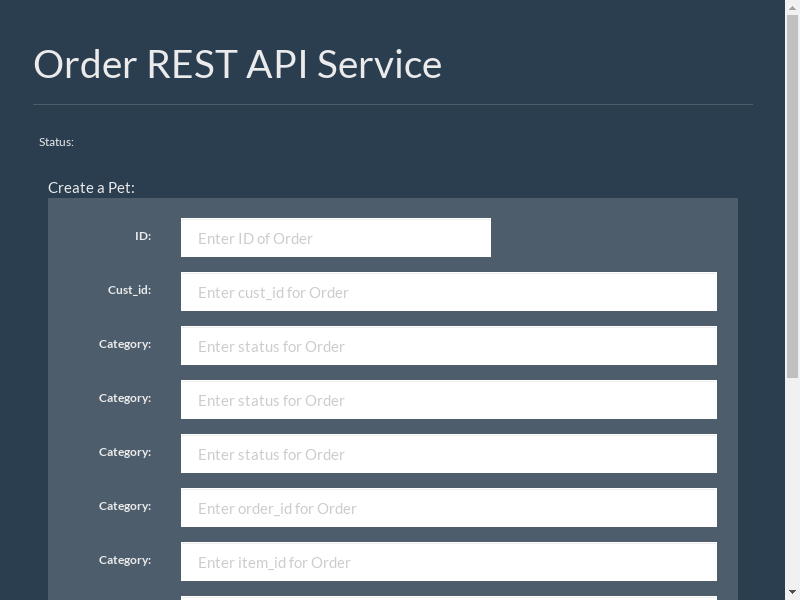
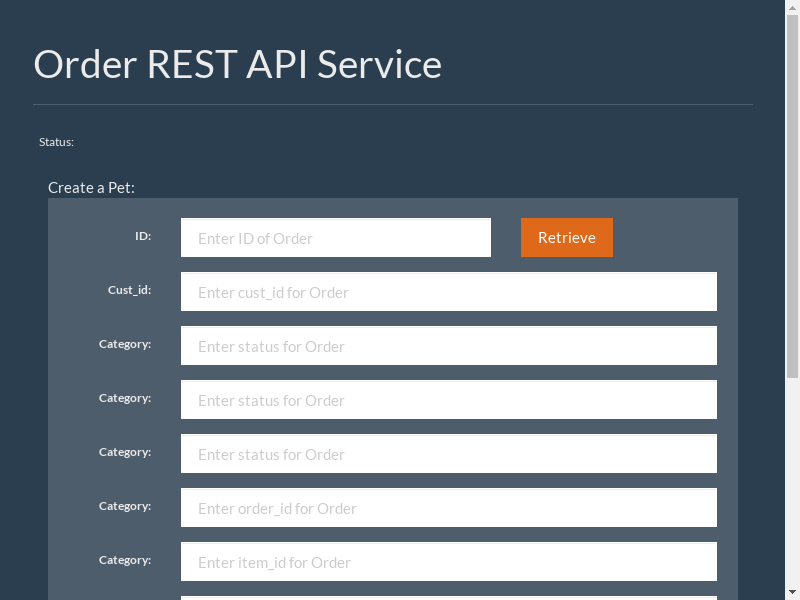
add ui and bdd test for create order but can not pass behave

Changed region(s): [[0.625, 0.36, 0.7812, 0.45]]

diff --git a/service/static/js/rest_api.js b/service/static/js/rest_api.js
@@ -24,6 +24,34 @@ $(function () {
         $("#flash_message").append(message);
     }
 
+    // ****************************************
+    // Retrieve a Pet
+    // ****************************************
+
+    $("#retrieve-btn").click(function () {
+
+        var id = $("#id").val();
+
+        var ajax = $.ajax({
+            type: "GET",
+            url: "/orders/" + id,
+            contentType: "application/json",
+            data: ''
+        })
+
+        ajax.done(function(res){
+            //alert(res.toSource())
+            update_form_data(res)
+            flash_message("Success")
+        });
+
+        ajax.fail(function(res){
+            clear_form_data()
+            flash_message(res.responseJSON.message)
+        });
+
+    });
+
 
     // ****************************************
     // Create an order
@@ -32,24 +60,27 @@ $(function () {
     $("#create-btn").click(function () {
 
         var cust_id =  $("#cust_id").val();
-        var status = $("#status").val();
+        // var status = $("#status").val();
         var item_id = $("#item_id").val();
         var item_name = $("#item_name").val()
         var item_qty = $("#item_qty").val()
         var item_price = $("#item_price").val()
 
 
+        var item =  {
+            "item_id": item_id,
+            "item_name": item_name,
+            "item_qty": item_qty,
+            "item_price": item_price
+        }
+
+        var item_list = new Array();
+        item_list[0] = item;
+
         var data = {
             "cust_id": cust_id,
-            "status": status,
-            order_items: [
-                {
-                    "item_id": item_id,
-                    "item_name": item_name,
-                    "item_qty": item_qty,
-                    "item_price": item_price
-                }
-            ]
+            // "status": status,
+            "order_items": item_list
         };
 
         var ajax = $.ajax({

diff --git a/service/static/index.html b/service/static/index.html
@@ -32,7 +32,7 @@
                   <input type="text" class="form-control" id="id" placeholder="Enter ID of Order">
                 </div>
                 <div class="col-sm-4">
-                  <!-- <button type="submit" class="btn btn-primary" id="retrieve-btn">Retrieve</button> -->
+                  <button type="submit" class="btn btn-primary" id="retrieve-btn">Retrieve</button>
                   <!-- <button type="submit" class="btn btn-danger" id="delete-btn">Delete</button> -->
                 </div>
               </div>

diff --git a/features/steps/steps.py b/features/steps/steps.py
@@ -12,7 +12,7 @@ from selenium.webdriver.support.ui import WebDriverWait
 from selenium.webdriver.support import expected_conditions
 
 WAIT_SECONDS = 120
-#BASE_URL = getenv('BASE_URL', 'http://localhost:5000/')
+#BASE_URL = getenv('BASE_URL', 'http://localhost:5000')
 
 @when('I visit the "home page"')
 def step_impl(context):
